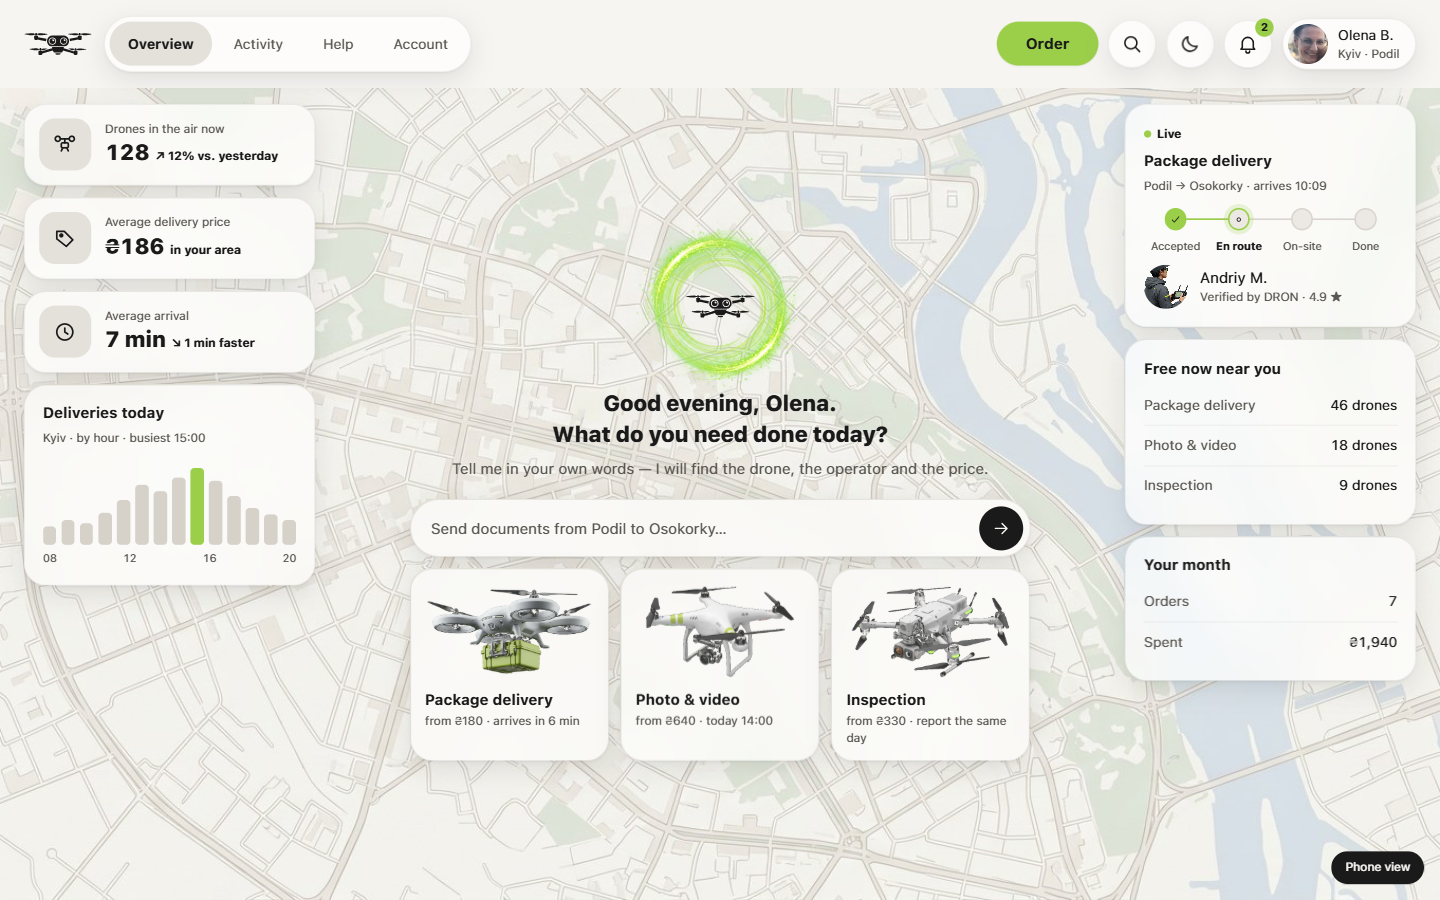
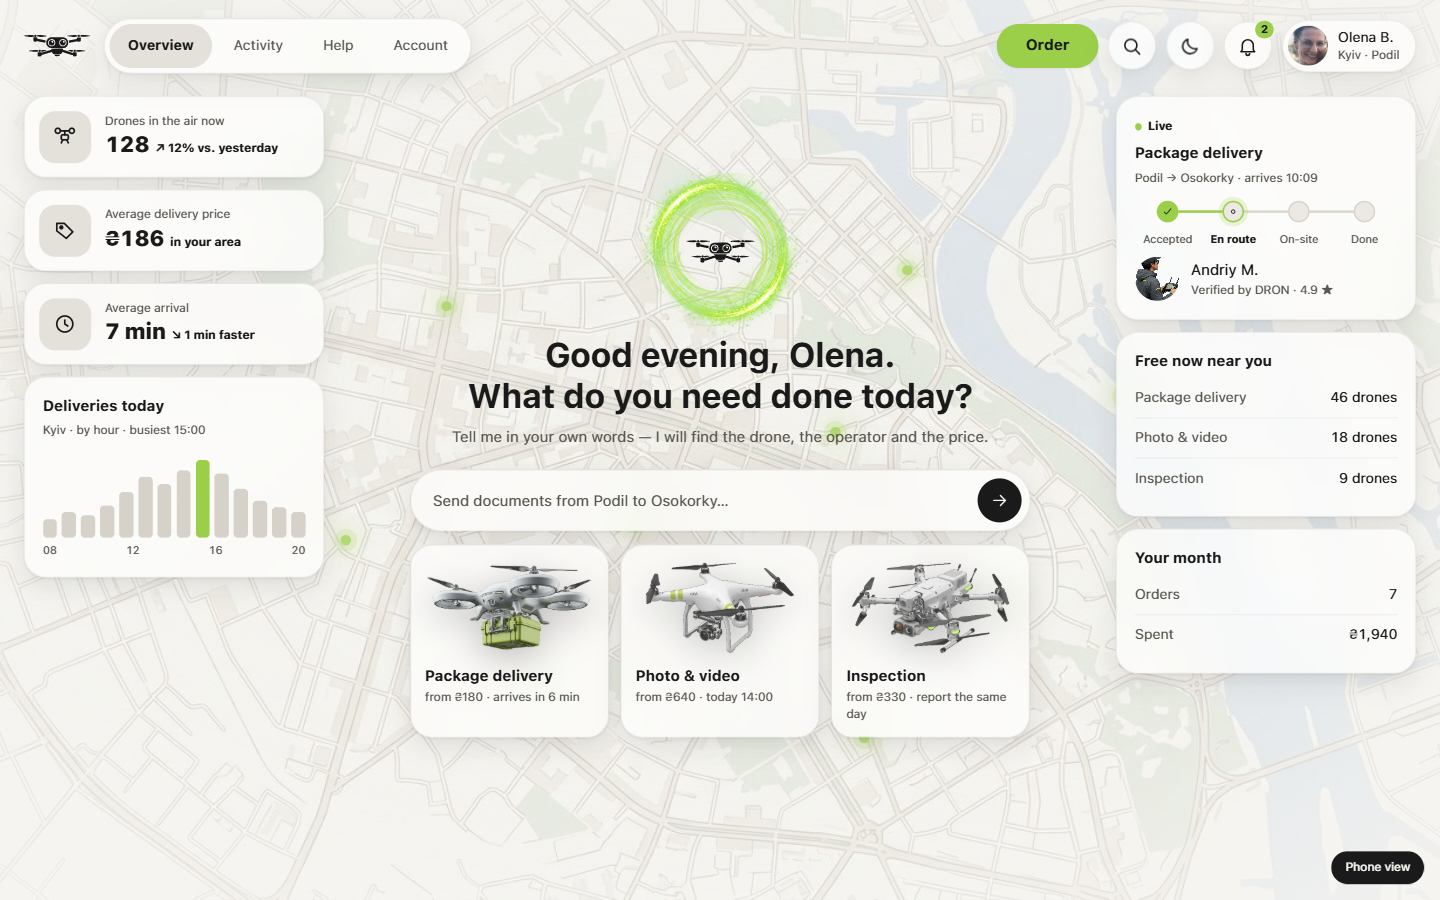
Desktop reference: the map under the whole window, drones in the air, the preview's layout

diff --git a/wireframes/desktop/_desktop.css b/wireframes/desktop/_desktop.css
@@ -41,3 +41,97 @@
 [data-theme="dark"] .dr .dr-svc img{
   filter: none;
 }
+
+/* ---------------------------------------------------------------------------
+   THE DESKTOP LAYOUT, as responsive/_preview-desktop-ai.html draws it
+   (the designer, 2026-10-18: «подивись як тут гарно і органічно»). The map is
+   the ground of the whole window, header included; a veil darkens its edges;
+   the header floats on it; the rails are 300 wide at the window's edges and the
+   assistant sits in the middle, 620 wide. Literal lengths here become tokens
+   when the desktop moves into design-system/.
+   --------------------------------------------------------------------------- */
+.dk{
+  position: relative;
+  background: var(--bg-page);
+}
+.dk > .dr-mapground{
+  z-index: 0;
+}
+.dk-veil{
+  position: absolute;
+  inset: 0;
+  z-index: 0;
+  pointer-events: none;
+  background: radial-gradient(70% 65% at 50% 48%, rgba(247,245,242,.1) 0%, rgba(247,245,242,.4) 70%, rgba(247,245,242,.75) 100%);
+}
+[data-theme="dark"] .dk-veil{
+  background: radial-gradient(70% 65% at 50% 48%, rgba(18,18,18,.15) 0%, rgba(18,18,18,.45) 70%, rgba(18,18,18,.8) 100%);
+}
+/* a drone in the air: the dot and its glow */
+.dk .dr-mapground__drone{
+  box-shadow: 0 0 0 6px color-mix(in srgb, var(--color-action) 22%, transparent),
+              0 0 24px 6px color-mix(in srgb, var(--color-action) 45%, transparent);
+}
+/* the header floats on the map */
+.dk > .dr-whead{
+  position: absolute;
+  top: 18px;
+  left: 24px;
+  right: 24px;
+  padding: 0;
+  gap: 14px;
+}
+.dk .dr-whead .dr-brand{
+  width: 66px;
+}
+/* the console: two 300 rails at the edges, the assistant in the middle */
+.dk > .dr-console{
+  position: absolute;
+  inset: 0;
+  z-index: 1;
+  grid-template-columns: 300px minmax(0, 1fr) 300px;
+  gap: 24px;
+  padding: 96px 24px 24px;
+  align-items: start;
+}
+.dk .dr-console__rail{
+  gap: 12px;
+}
+.dk .dr-console__centre{
+  align-self: center;
+  margin-top: -40px;
+  padding: 0;
+}
+.dk .dr-assistant{
+  width: min(100%, 620px);
+}
+.dk .dr-assistant__orb{
+  width: 180px;
+  height: 180px;
+  margin: -34px auto -6px;
+}
+.dk .dr-assistant__title{
+  font-size: 34px;
+  line-height: 1.2;
+  font-weight: 600;
+  letter-spacing: -.02em;
+}
+.dk .dr-assistant__lead{
+  margin: 10px 0 22px;
+  text-shadow: 0 1px 14px rgba(247,245,242,.9);
+}
+[data-theme="dark"] .dk .dr-assistant__lead{
+  text-shadow: 0 1px 14px rgba(0,0,0,.75);
+}
+.dk .dr-assistant__ask{
+  padding: 8px 8px 8px 22px;
+}
+.dk .dr-assistant__services{
+  margin-top: 14px;
+}
+.dk .dr-svc img{
+  filter: drop-shadow(0 10px 18px rgba(0,0,0,.25));
+}
+[data-theme="dark"] .dk .dr-svc img{
+  filter: drop-shadow(0 10px 18px rgba(0,0,0,.45));
+}

diff --git a/wireframes/desktop/listings.html b/wireframes/desktop/listings.html
@@ -12,7 +12,9 @@
 <link rel="stylesheet" href="_desktop.css">
 </head>
 <body class="dr">
-<div class="wf-frame dr dr-screen dr-screen--fluid">
+<div class="wf-frame dr dr-screen dr-screen--fluid dk">
+  <div class="dr-mapground" role="img" aria-label="Live map of Kyiv, 128 drones in the air"><span class="dr-mapground__drone" style="left:31%;top:34%"></span><span class="dr-mapground__drone" style="left:44%;top:58%"></span><span class="dr-mapground__drone" style="left:63%;top:30%"></span><span class="dr-mapground__drone" style="left:70%;top:66%"></span><span class="dr-mapground__drone" style="left:60%;top:82%"></span><span class="dr-mapground__drone" style="left:38%;top:76%"></span><span class="dr-mapground__drone" style="left:78%;top:44%"></span><span class="dr-mapground__drone" style="left:24%;top:60%"></span><span class="dr-mapground__drone" style="left:58%;top:48%"></span></div>
+  <div class="dk-veil" aria-hidden="true"></div>
   <header class="dr-whead">
     <span class="dr-brand" role="img" aria-label="DRON"></span>
     <nav class="dr-whead__nav dr-material" aria-label="Primary">
@@ -31,7 +33,6 @@
   </header>
 
   <main class="dr-console">
-    <div class="dr-mapground" role="img" aria-label="Live map of Kyiv"></div>
 
     <section class="dr-console__centre" aria-label="DRON assistant">
       <div class="dr-assistant">
